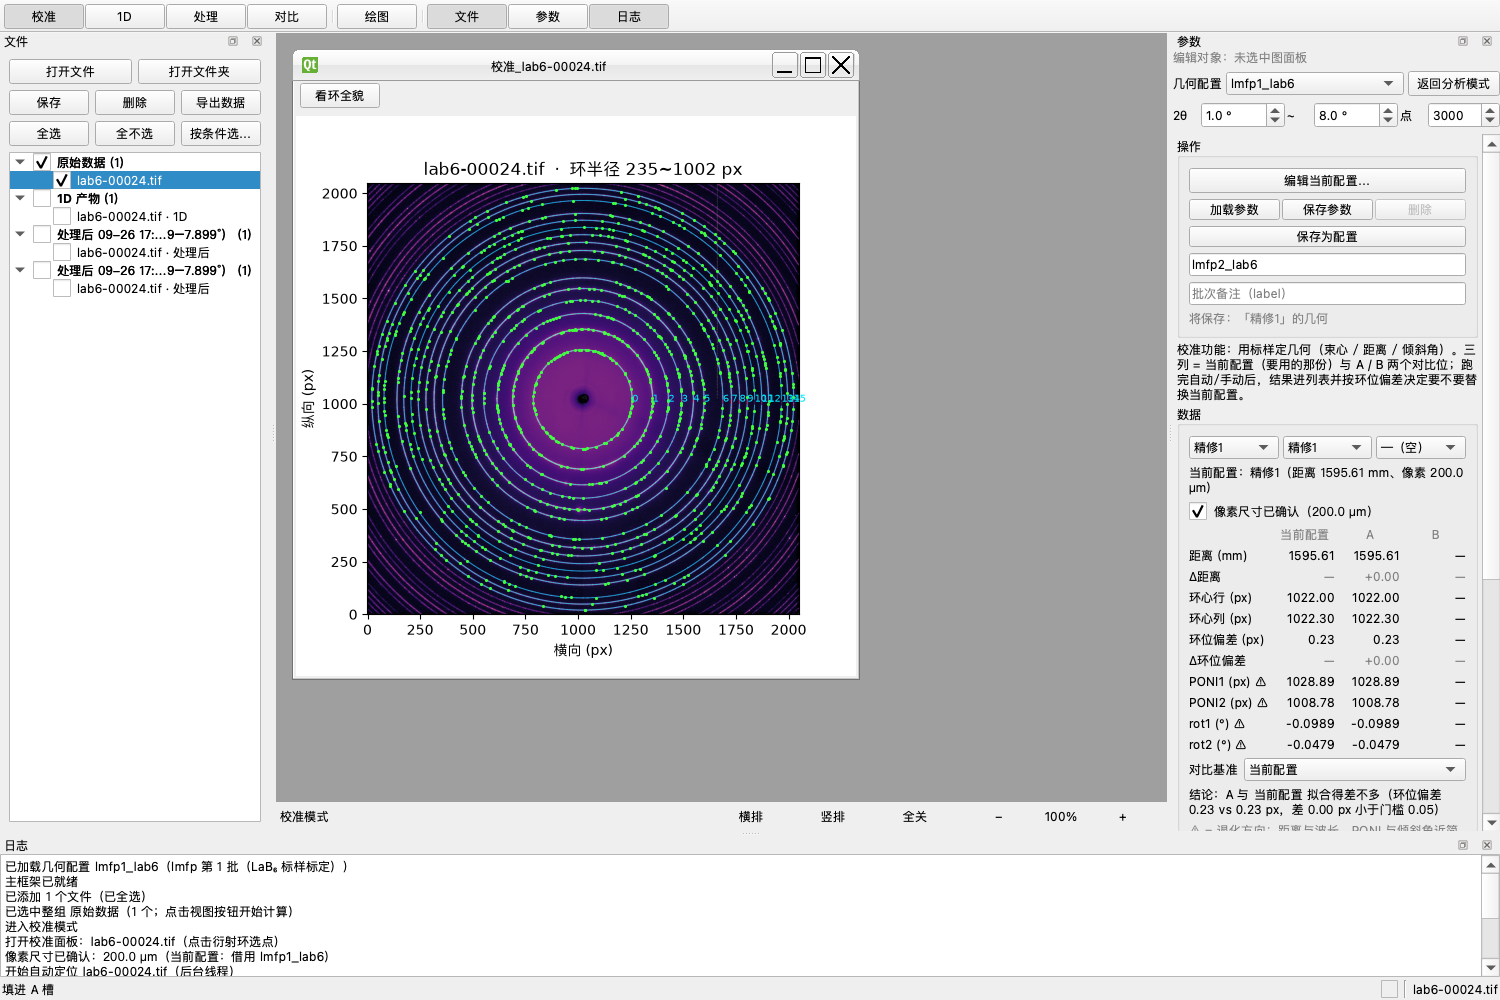
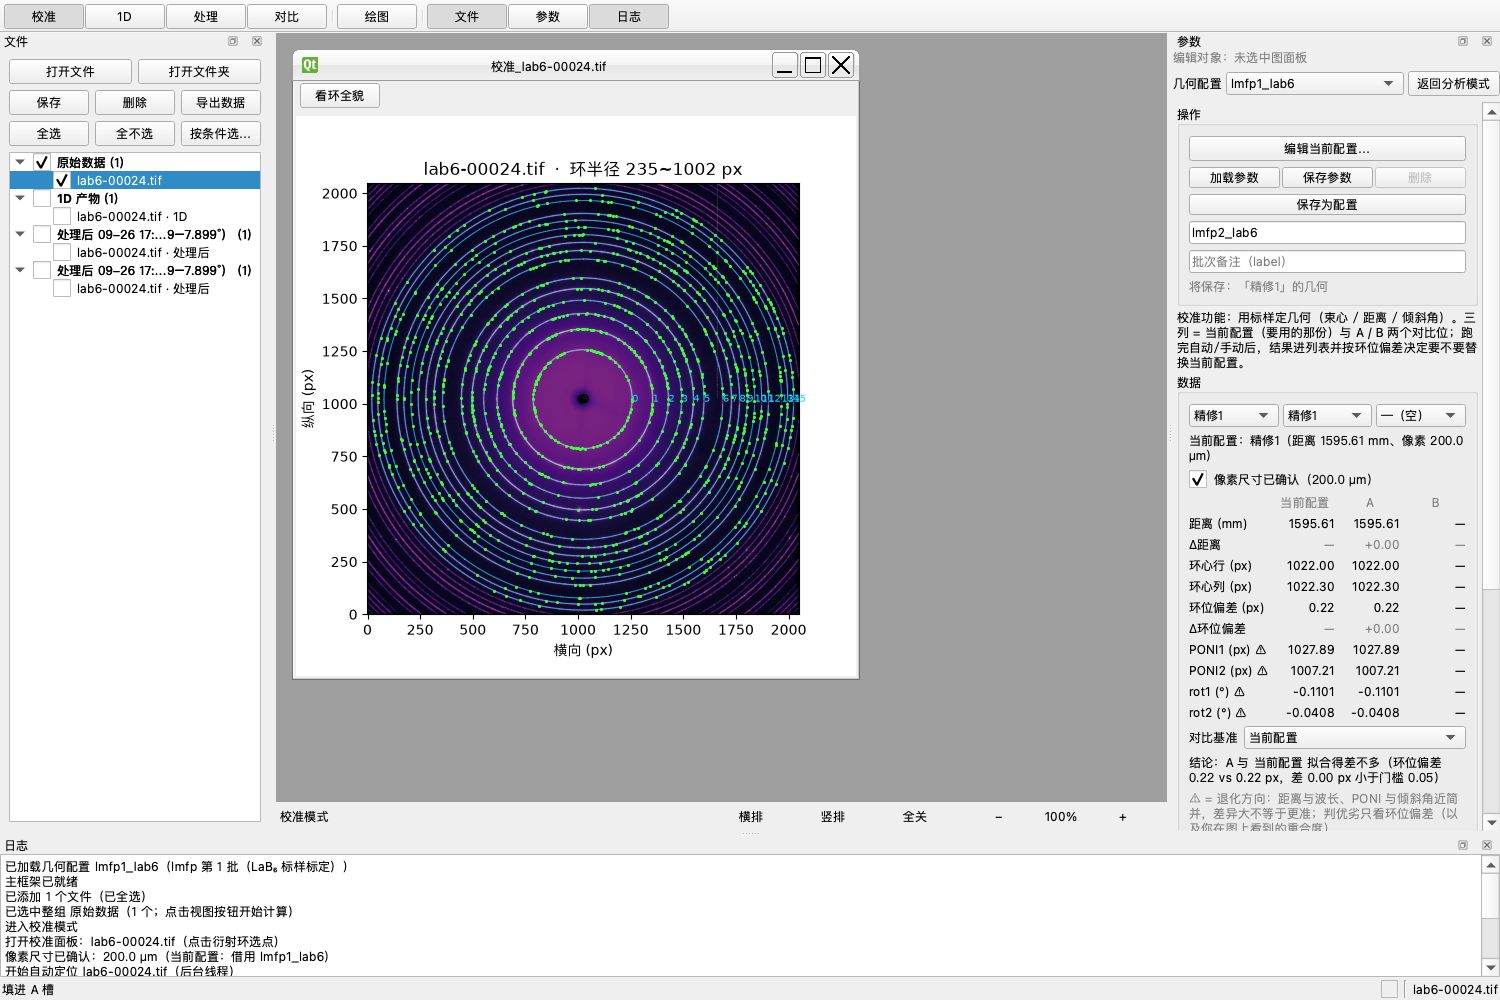
fix: the calibration page has no business showing a 2θ range
The user, straight after the range row landed on every page: "校准页参数放
2theta 范围干嘛". They are right — the row is the *integration* range
(1D / processing / compare / heatmap), and calibration never reads one:
ring_metrics takes geometry alone, and calib.py only ever carries
tth_min/tth_max through when it rebuilds the geometry dict. A "shared by
all pages" row therefore needed asking, page by page, whether that page
actually uses it.

_sync_data_row hides the row on the calibration page (the four analysis
entrances keep it), refreshed from the same param_stack.currentChanged
signal as the geometry row. The geometry row stays visible there — for a
different reason: it is where the calibration borrows its starting "current
config" from, and the entry that [加载参数] / [保存参数] / [删除] act on.

Tests: the data-row case now pins all three facts — visible on the four
analysis pages, hidden on the calibration page, and the geometry row
present on both. Full suite 588 green (922 s). gui_calib.png re-shot (the
row is gone from that dock), both READMEs and NOTES amended in both
languages.

diff --git a/tests/test_gui_integration.py b/tests/test_gui_integration.py
@@ -3469,20 +3469,29 @@ class TestParamDockSplitLayout(unittest.TestCase):
             w.close()
 
     def test_data_params_row_visible_on_every_page(self):
-        """2θ 范围 / 点数固定在坞顶第三行：五个入口页都看得见、都能改。
+        """2θ 范围 / 点数固定在坞顶第三行：**四个分析页**都看得见、都能改；
+        校准页不显示（它管的是 1D 积分区间，校准全程不读它）。
 
         用户 2026-09-27："1d 画图时能选范围，后面处理时没法选范围，比如
-        对比时，参数里加上"——原先这两项只在 1D 页，切到别的页就改不了。
+        对比时，参数里加上"，随后又指出"校准页参数放 2theta 范围干嘛"。
+        几何配置那一行相反：校准页要留着（借用起点 + 那三个按钮的对象）。
         """
         w = create_window()
         try:
             w.show()
-            for page in ("校准", "1D", "处理", "对比", "绘图"):
+            for page in ("1D", "处理", "对比", "绘图"):
                 w.entrance_buttons[page].click()
                 QApplication.processEvents()
                 for name in ("2θ 下限 (°)", "2θ 上限 (°)", "输出点数"):
                     self.assertTrue(w.params[name].isVisible(),
                                     f"{page} 页上该看得见 {name}")
+            w.entrance_buttons["校准"].click()
+            QApplication.processEvents()
+            self.assertFalse(w.data_row.isVisible(), "校准页上它不该出现")
+            self.assertTrue(w.geom_row.isVisible(), "几何配置行校准页要留着")
+            w.entrance_buttons["1D"].click()
+            QApplication.processEvents()
+            self.assertTrue(w.data_row.isVisible(), "回到分析页该回来")
             # 改一下照样进几何（数据参数照旧参与计算）
             w.params["2θ 下限 (°)"].setValue(2.5)
             self.assertAlmostEqual(

diff --git a/src/xrd_toolkit/gui/app.py b/src/xrd_toolkit/gui/app.py
@@ -566,9 +566,10 @@ def _build_param_dock(window: QMainWindow) -> QDockWidget:
     # 能改会让人以为改了就换了校准的几何。悬停文案与置灰状态都由
     # _sync_geom_row 一处写（翻页、_apply_config 换条目两条路都调它）。
     window.param_stack.currentChanged.connect(
-        lambda _i: _sync_geom_row(window))
+        lambda _i: (_sync_geom_row(window), _sync_data_row(window)))
     window._geom_row_sync = lambda: _sync_geom_row(window)
     _sync_geom_row(window)
+    _sync_data_row(window)
 
     def add_caption(form, text):
         """全宽灰色小节标题（布局行横跨标签/字段两列）。"""
@@ -1493,6 +1494,20 @@ def _sync_geom_row(window: QMainWindow) -> None:
                 "分析/积分用的条目）")
     combo.setToolTip(tip)
     window.geom_row.setToolTip(tip)
+
+
+def _sync_data_row(window: QMainWindow) -> None:
+    """坞顶"数据参数"那一行（2θ 范围 + 点数）随页显隐：**校准页不显示**。
+
+    这一行管的是 1D 积分区间（1D / 处理 / 对比 / 热图都用它），与校准无关
+    ——校准在原始图上定几何，全程不读 2θ 区间（`ring_metrics` 只吃几何）。
+    用户 2026-09-27："校准页参数放 2theta 范围干嘛"。
+    几何配置那一行相反，校准页要留着：它是借用起点，也是 [加载参数] /
+    [保存参数] / [删除] 三个按钮的作用对象。
+    """
+    calibrating = (window.param_stack.currentIndex()
+                   == window.PARAM_PAGES["校准"])
+    window.data_row.setVisible(not calibrating)
 
 
 def _switch_entrance(window: QMainWindow, name: str) -> None:

diff --git a/docs/NOTES.md b/docs/NOTES.md
@@ -184,6 +184,8 @@ SNIP was implemented and measured as well, but it over-subtracts by 43–98 % on
 
 **Background products.** [批量扣背景（勾选文件）] applies the current figure's anchors to the whole batch — the anchors carry **only their 2θ positions**, the intensities are re-sampled from each file's own curve (a batch shares the background *shape*, not its absolute level; copying the intensities would lift another file's baseline by a factor). Each result is stored, and the Compare / Heatmap views read those products first, saying so in the log ("扣背景产物 N 条"). Changing a background setting does not invalidate anything by hand: the product key contains the settings hash, so a change redraws live (milliseconds) and only an unchanged recipe reads the product.
 
+**The parameter dock pins three rows** above the page stack: the edit target, the geometry entry, and the **data parameters — the 2θ integration range and the point count**. The range used to live only on the 1D page, so picking one for a Compare or Heatmap run meant walking back there first (user, 2026-09-27); as data parameters they belong with the geometry row and are visible from the four analysis entrances — **the calibration page hides that row**, since calibration never reads a 2θ range (the user's follow-up: "校准页参数放 2theta 范围干嘛"), while the geometry row stays there because it is both the borrow source and what [加载参数] / [保存参数] / [删除] act on. The heatmap's display controls (colormap, log intensity, normalization) now redraw **as you change them** — they were wired to nothing before, so a drawn heatmap could not be recoloured at all.
+
 **The file bar is a tree** — the 原始数据 group on top, then one group per stage: 1D 产物 (already integrated under the current settings) and 扣背景 09-25 14:03（锚点 5 个，窗口 2°）… (one group per [批量扣背景], named with its time and recipe, so you can tell which parameter set a result came from). 81 samples' row names would otherwise smear into one black band: the heatmap strips each name down to its number run ("LMFP_1_atten0-00029.tif" → "00029") and thins the labels to the panel height, and the compare panel **drops the legend entirely past 12 curves** (a wall of 81 names covers the data — hover the status bar readout instead, which names the curve and whose dot takes the curve's colour). **Checking a group checks everything in it** (two states only — all checked lights the group up, anything else leaves it blank; the old half-check dash was indistinguishable from blank, so the user had it removed), so a whole batch of background-subtracted curves goes to [对比] / [热图] in two clicks. **Double-clicking an entry opens that one 1D panel** (cache hit if it was integrated already) and right-clicking a group offers [打开整组 1D 图]. Right-clicking deletes: a product group (the whole batch, ledger and stored products together) or a single product entry — every kind of product can be removed from the file bar, and the 1D 产物 group is no exception. Groups are rebuilt only when something happens (import / delete, batch background, cache clear) — never on a timer.
 
 **The two kinds of product are treated differently.** A **1D product** *is* the raw integrated curve, pinned to one cache entry, so it gets the same treatment as a raw file — anchors and auto-baseline work on it, and it can go through [批量扣背景] like anything else (the result hangs off *that* 1D key: whatever you checked is what gets subtracted). A **background product** is the finished article: its panel is forced to "no subtraction" and it is never subtracted again — subtracting twice is what that would be. Plotting or exporting a product reads that exact stored curve, with no re-integration.

diff --git a/README.md b/README.md
@@ -92,7 +92,7 @@ Typical workflow: `view_diffraction` (inspect) → `calibrate_integrate` (geomet
 
 ## GUI
 
-- **Five toolbar entrances** — `[校准] [1D] [扣背景] [对比] │ [绘图]`: each one turns the parameter dock to that stage's page, which carries only that stage's controls and its own produce button. Three rows stay pinned at the top of the dock no matter which page you are on — the edit target, the geometry entry in force, and the **data parameters (2θ integration range + point count)** so the range is changeable from any stage, not just the 1D page. **The window opens with nothing selected and the parameter dock hidden** — an entrance shows its page when you pick it.
+- **Five toolbar entrances** — `[校准] [1D] [扣背景] [对比] │ [绘图]`: each one turns the parameter dock to that stage's page, which carries only that stage's controls and its own produce button. Three rows stay pinned at the top of the dock no matter which page you are on — the edit target, the geometry entry in force, and the **data parameters (2θ integration range + point count)** so the range is changeable from any analysis stage, not just the 1D page (the calibration page hides that last row — calibration never reads a 2θ range). **The window opens with nothing selected and the parameter dock hidden** — an entrance shows its page when you pick it.
 - **Processing page** — three optional steps, each redrawing as you change it: background subtraction (empty scan / auto baseline — a rolling window whose local fit is a **line**, so a steeply decaying background is no longer over-subtracted at the low angles / manual anchors — joined by a monotone-preserving smooth by default, so the baseline cannot overshoot below the data), **smoothing** (rolling average or Savitzky–Golay — SG keeps far more peak height at the same window, measured 82 % vs 91 % of the strongest peak), and **cut** (blanks one or more 2θ intervals so a giant peak stops squashing the rest). While you tune the background the y axis holds still (it is framed by the un-subtracted curve) and only the curve moves inside it. One click on [批量处理] applies the set to the whole batch, and each file's result becomes a 处理后 … group in the file bar that Compare / Heatmap / export then read.
 - **One-click views** — [2D] [Profile] [1D] [Waterfall] plot every checked file at once, straight from the engine. [Compare] overlays several curves with three normalization modes (one shared scale in all of them — per-curve normalization is deliberately absent); [Heatmap] assembles the batch into one 2θ × sample map, and clicking a heatmap row toggles that sample's curve in an open Compare panel.
 - **File bar** — a tree: the raw files at the top, then one group per stage product (1D 产物, and one group per batch background run, named with its time and recipe). Checking a group checks everything in it (two states: all-checked lights it up, anything else leaves it blank), so a batch of background-subtracted curves goes to a comparison plot in two clicks; double-clicking an entry opens that one's 1D panel, and a group's right-click can open all of it. One right-click handles both verbs: **delete** (raw entries leave the list only — the files on disk are never touched; products are really deleted, one entry or a whole group, ledger included) and **export** (a product entry or group goes straight to txt / chi / CSV without checking anything first), plus **delete all cache** with a confirmation. Imports start unchecked — select with [全选] / [全不选] / [按条件选…] (range, stride, name filter, with a live count).

diff --git a/docs/README.zh-CN.md b/docs/README.zh-CN.md
@@ -88,7 +88,7 @@ python scripts/sector_waterfall.py   --file data/xxx.tif --n-sectors 36
 
 ## 界面
 
-- **工具栏五个入口**——`[校准] [1D] [扣背景] [对比] │ [绘图]`：点一个 = 右侧参数面板翻到那一页，只放本阶段的东西（含本页的产出按钮）。**开界面时上面一个都不选、右侧参数栏是收起的**，选到谁才露出谁。参数坞顶部固定三行：编辑对象、当前几何配置、**数据参数（2θ 积分范围 + 输出点数）**——范围在任何一页都能改，不用回 1D 页。
+- **工具栏五个入口**——`[校准] [1D] [扣背景] [对比] │ [绘图]`：点一个 = 右侧参数面板翻到那一页，只放本阶段的东西（含本页的产出按钮）。**开界面时上面一个都不选、右侧参数栏是收起的**，选到谁才露出谁。参数坞顶部固定三行：编辑对象、当前几何配置、**数据参数（2θ 积分范围 + 输出点数）**——范围在四个分析页都能改，不用回 1D 页（校准页把它收起来：校准不读 2θ 区间）。
 - **处理页**——三项可选项，都是"改参数立刻看到"：[背景扣除]（空扫 / 自动基线 / 手动锚点）、
   [平滑]（滑动平均 / Savitzky–Golay 两种，窗口按 2θ 给；同一窗口下 SG 保峰好得多，实测削 82% vs 91%）、[裁剪]（把某段 2θ 挖掉，让被巨峰压扁的其余部分看得清）。
   一张图调好后点 [批量处理]，整批各生成一份处理产物（文件栏里成为「处理后 …」分组），
